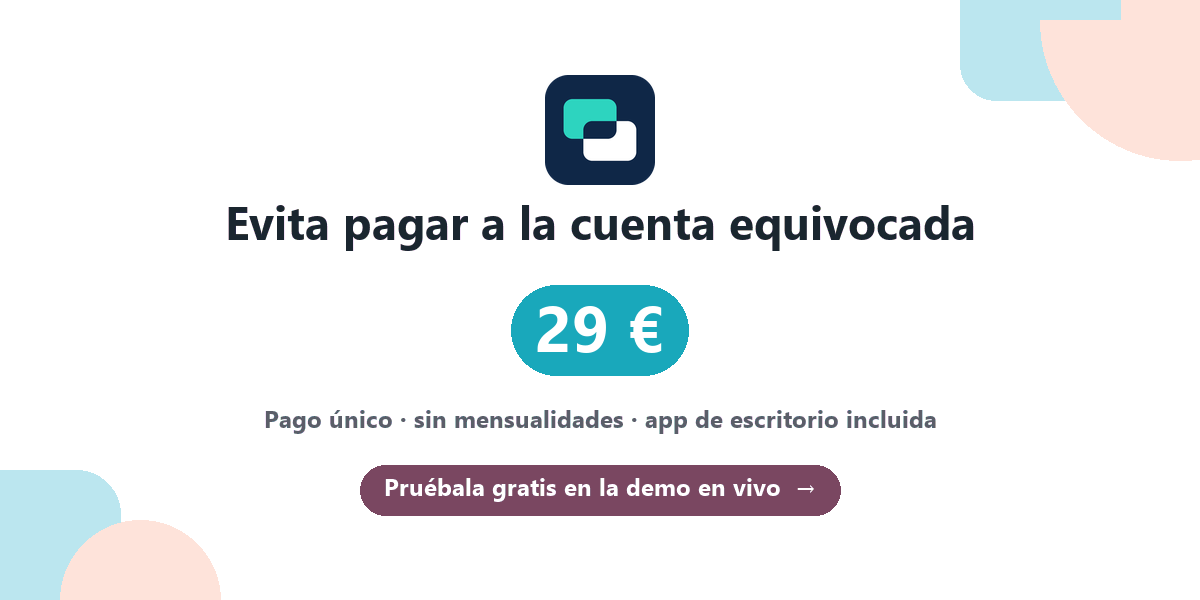
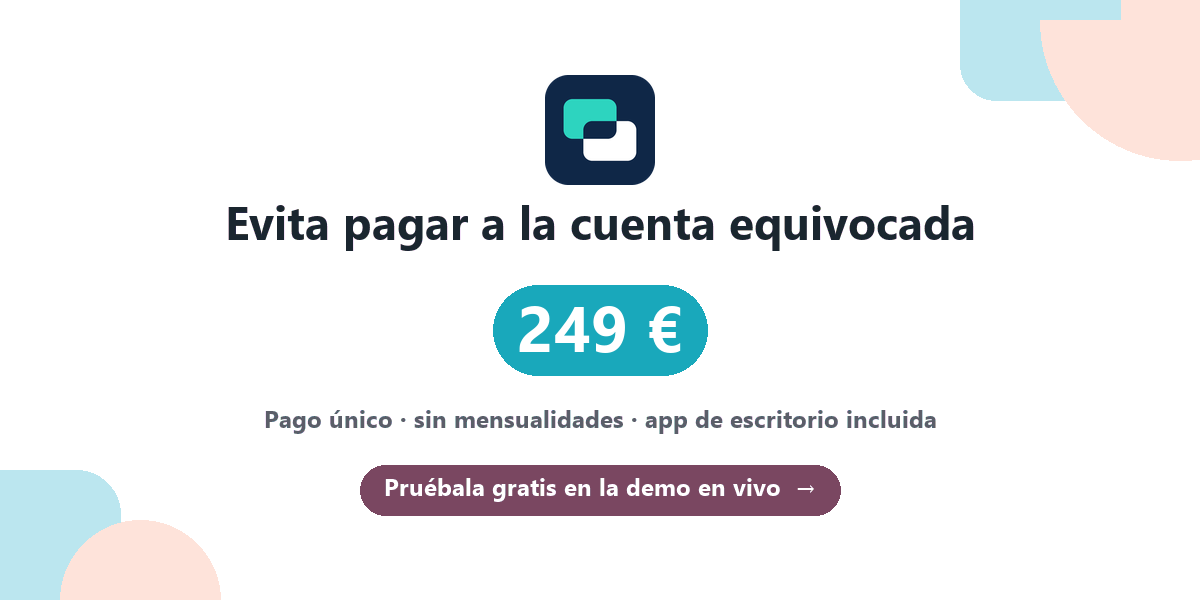
Módulo de Odoo a 249 € de pago único; capturas nuevas de ORIVEXY Verify

Changed region(s): [[0.4008, 0.48, 0.6167, 0.63]]

diff --git a/ca/index.html b/ca/index.html
@@ -17,7 +17,7 @@
 <meta property="og:url" content="https://orivexy.github.io/ca/">
 <meta name="twitter:card" content="summary_large_image">
 <meta name="keywords" content="IBAN, SEPA, Odoo, account holder verification, verificació de titular, remeses, pagaments, frau, bank certificate">
-<script type="application/ld+json">{"@context": "https://schema.org", "@type": "SoftwareApplication", "name": "ORIVEXY Verify", "applicationCategory": "BusinessApplication", "operatingSystem": "Odoo 15, 16, 17, 18, 19, 20; Windows", "description": "Comprova abans de pagar que cada IBAN de la teva remesa és de qui diu ser: el creua amb el certificat del banc. Mòdul per a Odoo 15 a 20 i app d'escriptori. 100 % local.", "inLanguage": "ca", "url": "https://orivexy.github.io/ca/", "image": "https://orivexy.github.io/es/img/banner.gif", "softwareVersion": "0.1", "author": {"@type": "Person", "name": "Eric Muñiz Genebriera"}, "offers": {"@type": "Offer", "price": "29.00", "priceCurrency": "EUR", "url": "https://apps.odoo.com/apps/modules/20.0/orivexy_validator", "availability": "https://schema.org/InStock"}}</script>
+<script type="application/ld+json">{"@context": "https://schema.org", "@type": "SoftwareApplication", "name": "ORIVEXY Verify", "applicationCategory": "BusinessApplication", "operatingSystem": "Odoo 15, 16, 17, 18, 19, 20; Windows", "description": "Comprova abans de pagar que cada IBAN de la teva remesa és de qui diu ser: el creua amb el certificat del banc. Mòdul per a Odoo 15 a 20 i app d'escriptori. 100 % local.", "inLanguage": "ca", "url": "https://orivexy.github.io/ca/", "image": "https://orivexy.github.io/es/img/banner.gif", "softwareVersion": "0.1", "author": {"@type": "Person", "name": "Eric Muñiz Genebriera"}, "offers": {"@type": "Offer", "price": "249.00", "priceCurrency": "EUR", "url": "https://apps.odoo.com/apps/modules/20.0/orivexy_validator", "availability": "https://schema.org/InStock"}}</script>
 <link rel="icon" href="../demo/logo.png">
 <style>
   :root { --fondo: #F8F9FB; --caja: #FFFFFF; --borde: #E0E4EC; --texto: #1F2433; --suave: #5C6678; --azul: #714B67; --boton: #714B67; --verde: #168F90; }
@@ -69,7 +69,7 @@
       <a class="btn principal" href="https://apps.odoo.com/apps/modules/20.0/orivexy_validator">Aconsegueix-lo a Odoo Apps</a>
       <a class="btn secundario" href="../demo/">Prova la demo en directe</a>
     </div>
-    <p class="precio"><b>App d'escriptori (Windows):</b> Individual 29 € pagament únic, no caduca (clau per correu) · Empresa/grup 29 €/usuari/mes, es renova cada mes, sense permanència · <b>Mòdul d'Odoo:</b> 29 € pagament únic per versió d'Odoo, a Odoo Apps</p>
+    <p class="precio"><b>App d'escriptori (Windows):</b> Individual 29 € pagament únic, no caduca (clau per correu) · Empresa/grup 29 €/usuari/mes, es renova cada mes, sense permanència · <b>Mòdul d'Odoo:</b> 249 € pagament únic per versió d'Odoo, a Odoo Apps</p>
     <img class="portada" src="../img/banner.gif" alt="Demo animada d'una validació amb ORIVEXY Verify">
   </section>
 

diff --git a/es/index.html b/es/index.html
@@ -17,7 +17,7 @@
 <meta property="og:url" content="https://orivexy.github.io/es/">
 <meta name="twitter:card" content="summary_large_image">
 <meta name="keywords" content="IBAN, SEPA, Odoo, account holder verification, verificación de titular, remesas, pagos, fraude, bank certificate">
-<script type="application/ld+json">{"@context": "https://schema.org", "@type": "SoftwareApplication", "name": "ORIVEXY Verify", "applicationCategory": "BusinessApplication", "operatingSystem": "Odoo 15, 16, 17, 18, 19, 20; Windows", "description": "Comprueba antes de pagar que cada IBAN de tu remesa es de quien dice ser: lo cruza con el certificado del banco. Módulo para Odoo 15 a 20 y app de escritorio. 100 % local.", "inLanguage": "es", "url": "https://orivexy.github.io/es/", "image": "https://orivexy.github.io/es/img/banner.gif", "softwareVersion": "0.1", "author": {"@type": "Person", "name": "Eric Muñiz Genebriera"}, "offers": {"@type": "Offer", "price": "29.00", "priceCurrency": "EUR", "url": "https://apps.odoo.com/apps/modules/20.0/orivexy_validator", "availability": "https://schema.org/InStock"}}</script>
+<script type="application/ld+json">{"@context": "https://schema.org", "@type": "SoftwareApplication", "name": "ORIVEXY Verify", "applicationCategory": "BusinessApplication", "operatingSystem": "Odoo 15, 16, 17, 18, 19, 20; Windows", "description": "Comprueba antes de pagar que cada IBAN de tu remesa es de quien dice ser: lo cruza con el certificado del banco. Módulo para Odoo 15 a 20 y app de escritorio. 100 % local.", "inLanguage": "es", "url": "https://orivexy.github.io/es/", "image": "https://orivexy.github.io/es/img/banner.gif", "softwareVersion": "0.1", "author": {"@type": "Person", "name": "Eric Muñiz Genebriera"}, "offers": {"@type": "Offer", "price": "249.00", "priceCurrency": "EUR", "url": "https://apps.odoo.com/apps/modules/20.0/orivexy_validator", "availability": "https://schema.org/InStock"}}</script>
 <link rel="icon" href="../demo/logo.png">
 <style>
   :root { --fondo: #F8F9FB; --caja: #FFFFFF; --borde: #E0E4EC; --texto: #1F2433; --suave: #5C6678; --azul: #714B67; --boton: #714B67; --verde: #168F90; }
@@ -69,7 +69,7 @@
       <a class="btn principal" href="https://apps.odoo.com/apps/modules/20.0/orivexy_validator">Consíguelo en Odoo Apps</a>
       <a class="btn secundario" href="../demo/">Prueba la demo en vivo</a>
     </div>
-    <p class="precio"><b>App de escritorio (Windows):</b> Individual 29 € pago único, no caduca (clave por email) · Empresa/grupo 29 €/usuario/mes, se renueva cada mes, sin permanencia · <b>Módulo de Odoo:</b> 29 € pago único por versión de Odoo, en Odoo Apps</p>
+    <p class="precio"><b>App de escritorio (Windows):</b> Individual 29 € pago único, no caduca (clave por email) · Empresa/grupo 29 €/usuario/mes, se renueva cada mes, sin permanencia · <b>Módulo de Odoo:</b> 249 € pago único por versión de Odoo, en Odoo Apps</p>
     <img class="portada" src="../img/banner.gif" alt="Demo animada de una validación con ORIVEXY Verify">
   </section>
 

diff --git a/index.html b/index.html
@@ -17,7 +17,7 @@
 <meta property="og:url" content="https://orivexy.github.io/">
 <meta name="twitter:card" content="summary_large_image">
 <meta name="keywords" content="IBAN, SEPA, Odoo, account holder verification, verificación de titular, remesas, pagos, fraude, bank certificate">
-<script type="application/ld+json">{"@context": "https://schema.org", "@type": "SoftwareApplication", "name": "ORIVEXY Verify", "applicationCategory": "BusinessApplication", "operatingSystem": "Odoo 15, 16, 17, 18, 19, 20; Windows", "description": "Before paying, check that every IBAN in your payment batch belongs to the right account holder by matching it against the bank certificate. Odoo 15–20 module and desktop app. 100% local.", "inLanguage": "en", "url": "https://orivexy.github.io/", "image": "https://orivexy.github.io/es/img/banner.gif", "softwareVersion": "0.1", "author": {"@type": "Person", "name": "Eric Muñiz Genebriera"}, "offers": {"@type": "Offer", "price": "29.00", "priceCurrency": "EUR", "url": "https://apps.odoo.com/apps/modules/20.0/orivexy_validator", "availability": "https://schema.org/InStock"}}</script>
+<script type="application/ld+json">{"@context": "https://schema.org", "@type": "SoftwareApplication", "name": "ORIVEXY Verify", "applicationCategory": "BusinessApplication", "operatingSystem": "Odoo 15, 16, 17, 18, 19, 20; Windows", "description": "Before paying, check that every IBAN in your payment batch belongs to the right account holder by matching it against the bank certificate. Odoo 15–20 module and desktop app. 100% local.", "inLanguage": "en", "url": "https://orivexy.github.io/", "image": "https://orivexy.github.io/es/img/banner.gif", "softwareVersion": "0.1", "author": {"@type": "Person", "name": "Eric Muñiz Genebriera"}, "offers": {"@type": "Offer", "price": "249.00", "priceCurrency": "EUR", "url": "https://apps.odoo.com/apps/modules/20.0/orivexy_validator", "availability": "https://schema.org/InStock"}}</script>
 <link rel="icon" href="demo/logo.png">
 <style>
   :root { --fondo: #F8F9FB; --caja: #FFFFFF; --borde: #E0E4EC; --texto: #1F2433; --suave: #5C6678; --azul: #714B67; --boton: #714B67; --verde: #168F90; }
@@ -69,7 +69,7 @@
       <a class="btn principal" href="https://apps.odoo.com/apps/modules/20.0/orivexy_validator">Get it on Odoo Apps</a>
       <a class="btn secundario" href="demo/">Try the live demo</a>
     </div>
-    <p class="precio"><b>Desktop app (Windows):</b> Individual €29 one-time, never expires (key by email) · Company/team €29 per user/month, renews monthly, no commitment · <b>Odoo module:</b> €29 one-time per Odoo version, sold on Odoo Apps</p>
+    <p class="precio"><b>Desktop app (Windows):</b> Individual €29 one-time, never expires (key by email) · Company/team €29 per user/month, renews monthly, no commitment · <b>Odoo module:</b> €249 one-time per Odoo version, sold on Odoo Apps</p>
     <img class="portada" src="img/banner_en.gif" alt="Animated demo of an ORIVEXY Verify validation">
   </section>
 

diff --git a/terms.html b/terms.html
@@ -33,7 +33,7 @@ responsible for checking payments before making them.</p>
 <li><b>Desktop app (Windows) – individual licence</b> (freelancers and individuals): €29 one-time plus VAT; the licence never expires and the key is sent by email.</li>
 <li><b>Desktop app (Windows) – company/team licence:</b> €29 per user per month plus VAT, renewed monthly with no minimum term. You can cancel at any time; access
 continues until the end of the paid period.</li>
-<li><b>Odoo module:</b> €29 one-time per Odoo version, sold through Odoo Apps under Odoo's terms (licence OPL-1).</li>
+<li><b>Odoo module:</b> €249 one-time per Odoo version, sold through Odoo Apps under Odoo's terms (licence OPL-1).</li>
 </ul>
 
 <h2>Trial</h2>
@@ -70,7 +70,7 @@ bloquea pagos. Los resultados son una ayuda: la comprobación final de cada pago
 <li><b>App de escritorio (Windows) – licencia individual</b> (autónomos y particulares): 29 € pago único + IVA; la licencia no caduca y la clave se envía por email.</li>
 <li><b>App de escritorio (Windows) – licencia de empresa/grupo:</b> 29 € por usuario al mes + IVA, renovación mensual sin permanencia. Puedes cancelar cuando quieras; el acceso
 dura hasta el final del periodo pagado.</li>
-<li><b>Módulo de Odoo:</b> 29 € pago único por versión de Odoo, en Odoo Apps y con sus condiciones (licencia OPL-1).</li>
+<li><b>Módulo de Odoo:</b> 249 € pago único por versión de Odoo, en Odoo Apps y con sus condiciones (licencia OPL-1).</li>
 </ul>
 <h2>Prueba</h2>
 <p>Hay una demo web gratuita con datos ficticios en <a href="demo/">orivexy.github.io/demo</a>. Los testers de la beta

diff --git a/demo/index.html b/demo/index.html
@@ -236,7 +236,7 @@
         <li>Exportación a CSV y Excel, y cada usuario ve sólo lo suyo.</li>
         <li>Odoo 15 a 20 y aplicación de escritorio para Windows, macOS y Linux.</li>
       </ul>
-      <a class="cta" href="https://apps.odoo.com/apps/modules/20.0/orivexy_validator" target="_blank" rel="noopener">Ver en Odoo Apps · 29 € pago único</a>
+      <a class="cta" href="https://apps.odoo.com/apps/modules/20.0/orivexy_validator" target="_blank" rel="noopener">Ver en Odoo Apps · 249 € pago único</a>
       <a class="cta secundario" href="https://apps.odoo.com/apps/modules/20.0/orivexy_validator" target="_blank" rel="noopener">Incluye app de escritorio: Windows, macOS y Linux</a>
     </section>
   </aside>
